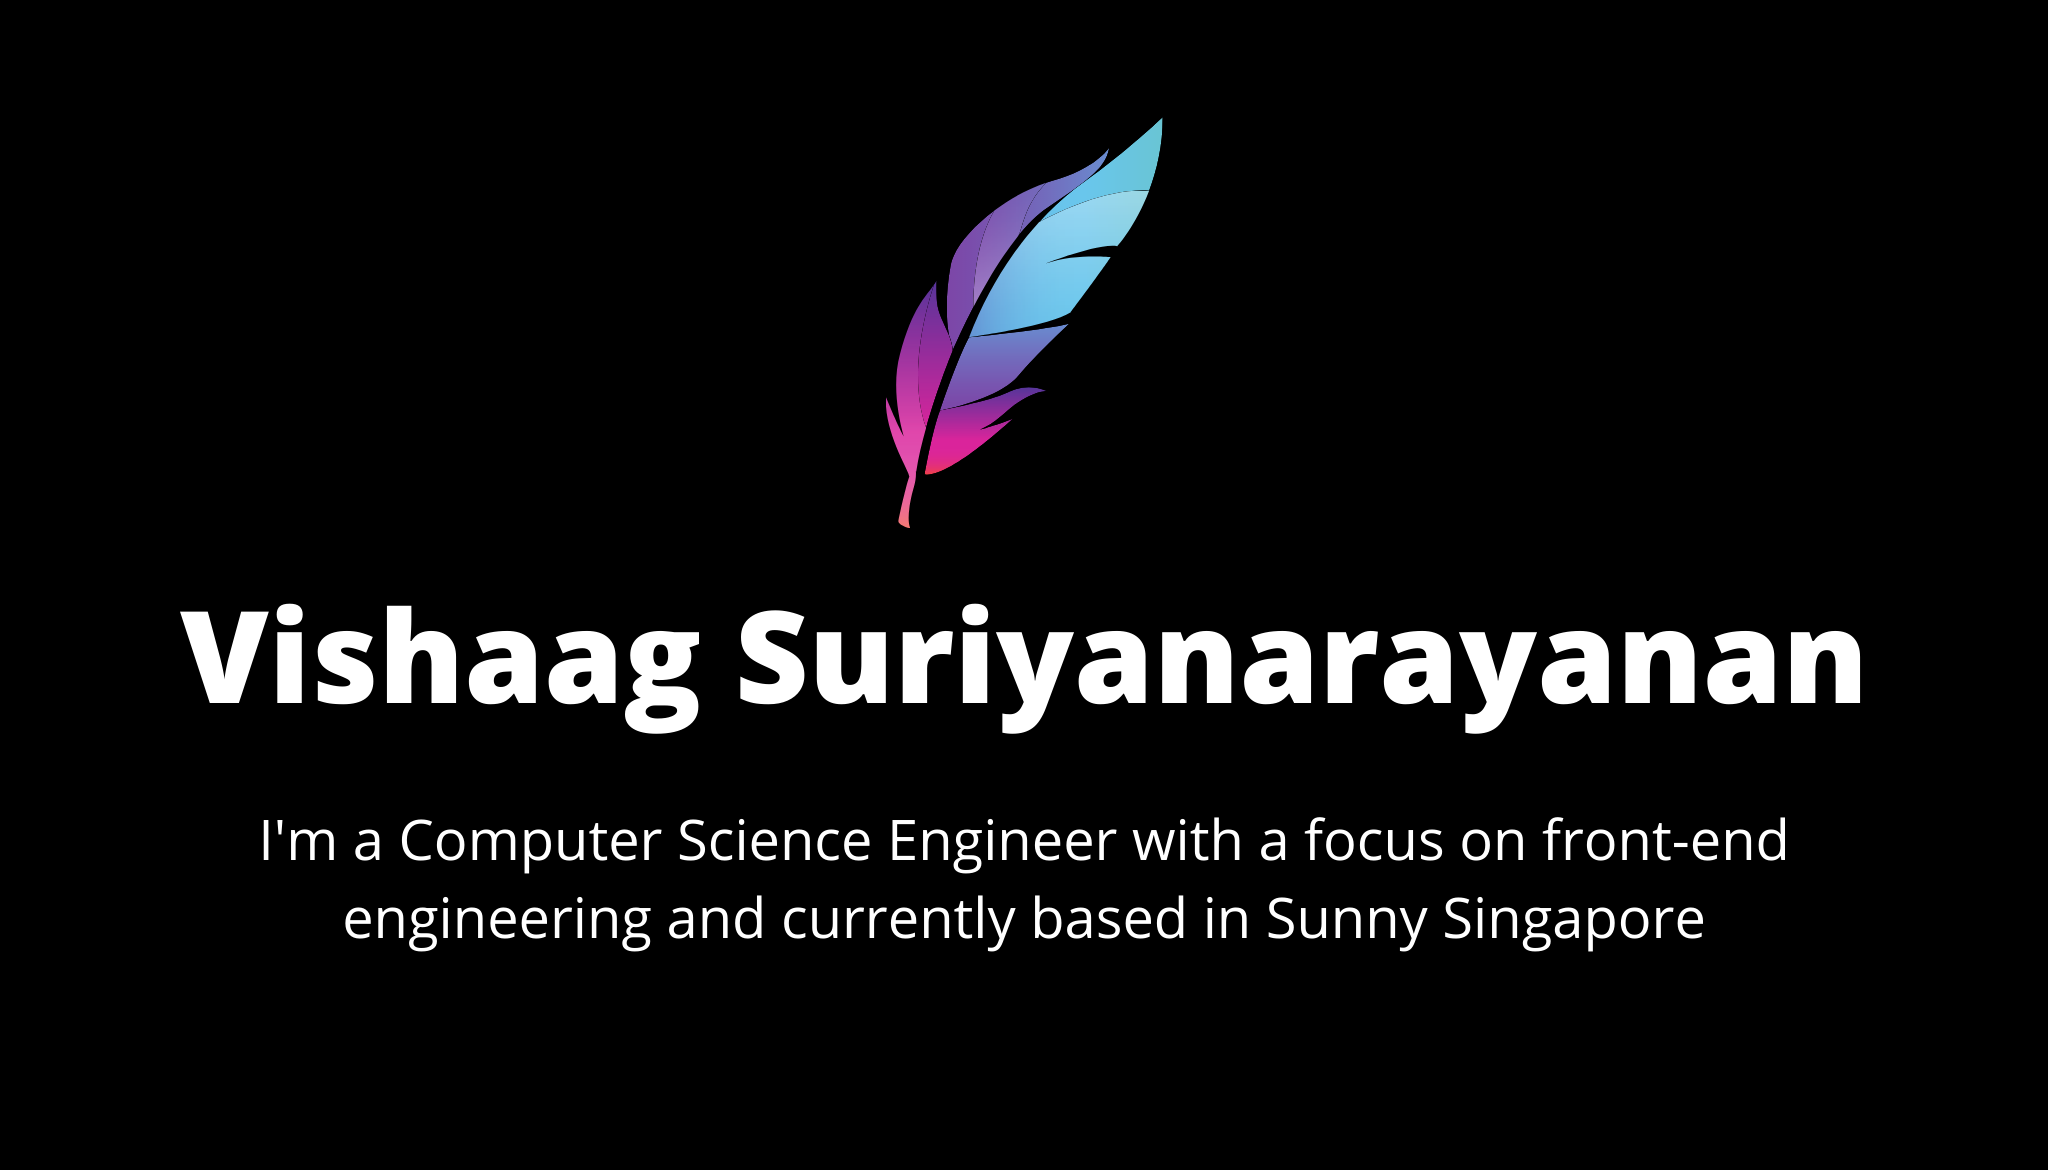
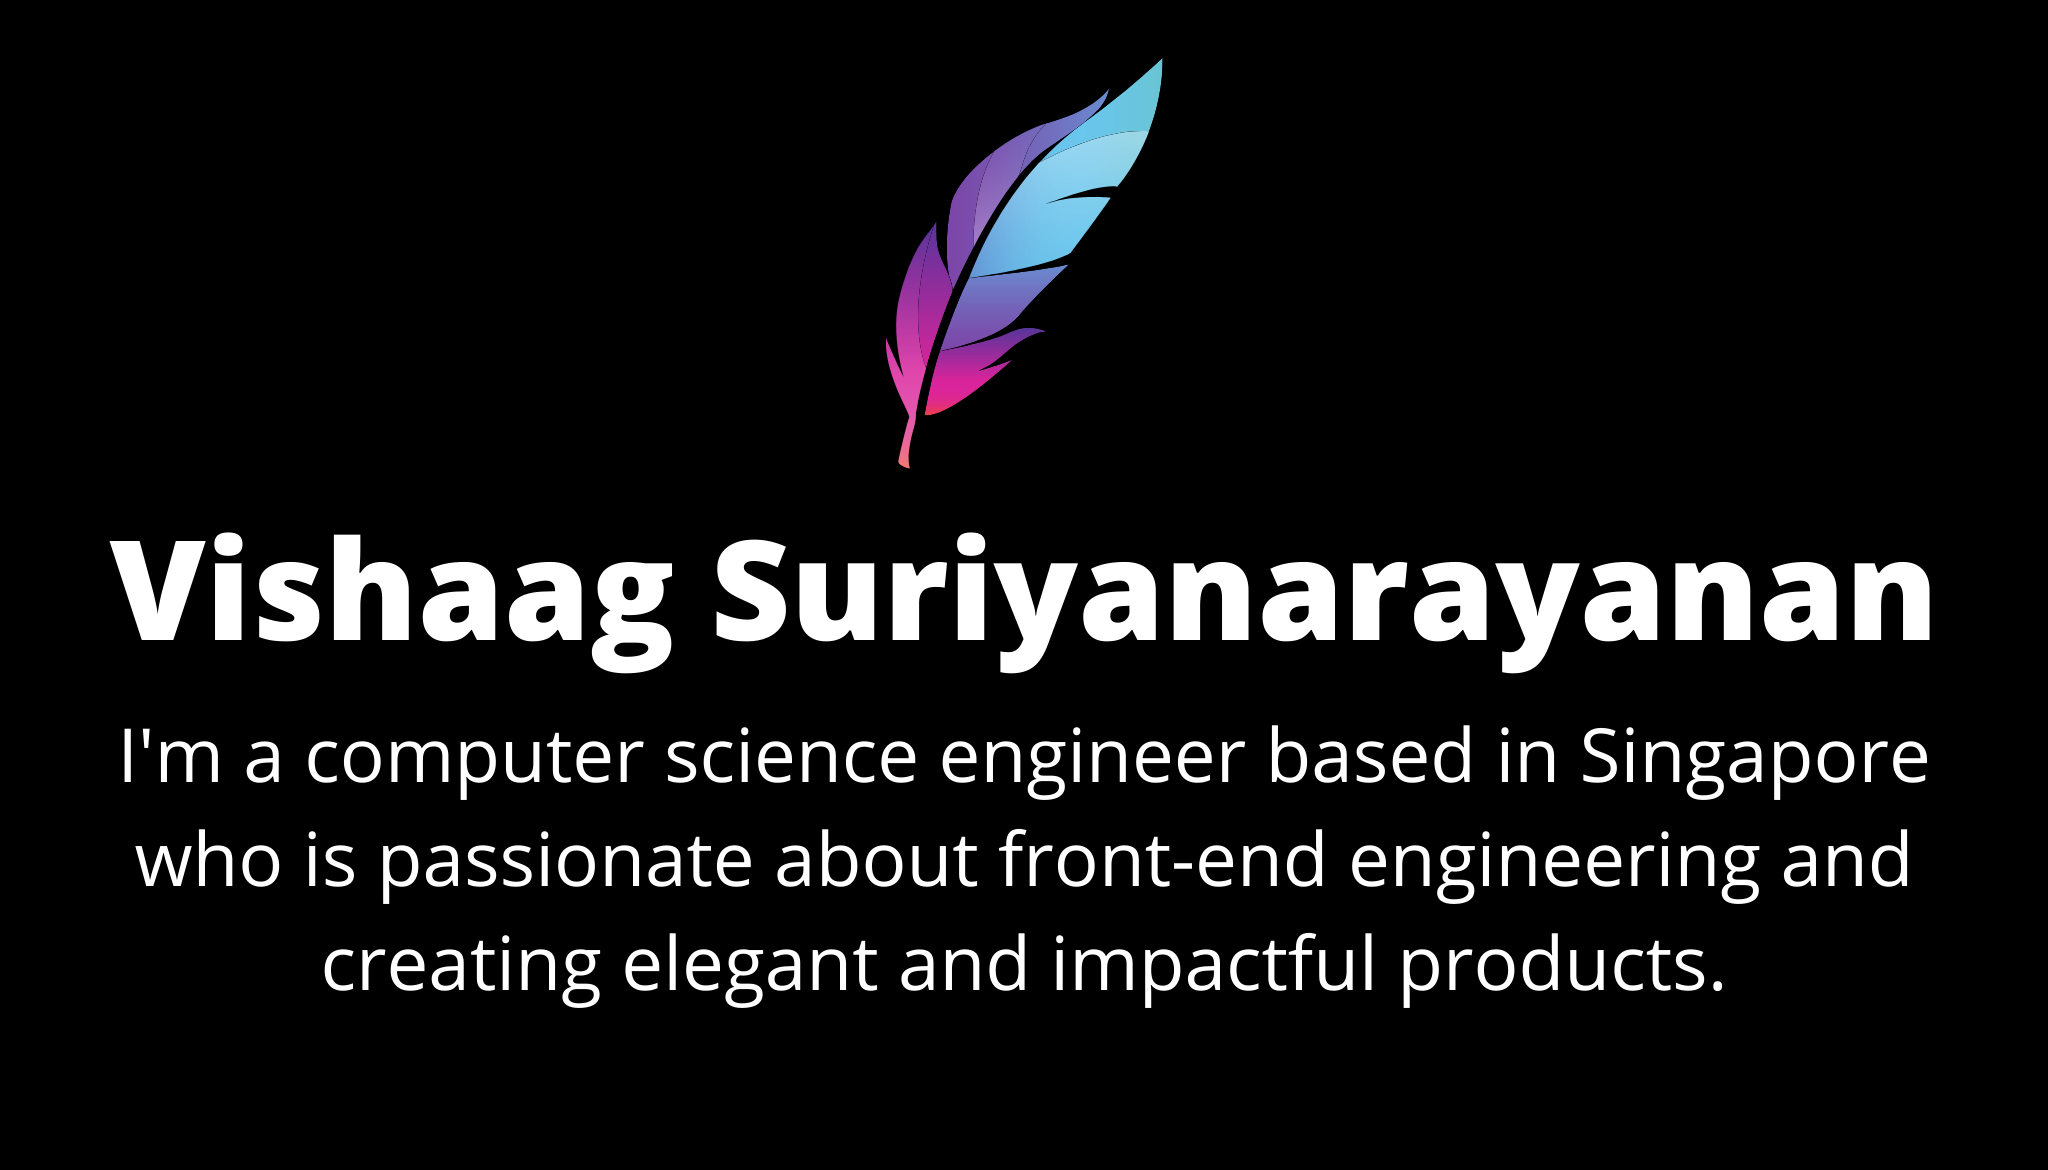
change tag line, about, social card

Changed region(s): [[0.0312, 0.0615, 0.9688, 0.6769], [0.0625, 0.7077, 0.9375, 0.8615]]

diff --git a/pages/about.js b/pages/about.js
@@ -10,12 +10,18 @@ export default function Home() {
       </Head>
       <section className={utilStyles.marginTop3rem}>
         <img src="/images/me.jpg" style={{margin: "0 auto", maxWidth:"12rem", borderRadius: '9999px'}}/>
-        <h2 className={utilStyles.headingMd}>hi! 👋</h2>
-        <p>I'm a computer science engineer with a focus on front-end engineering. I love working with the latest front-end tools and keeping myself updated with the ecosystem. I'm actively looking for my next role, so if you're hiring, please get in touch with me! You can find my <a href="/VishaagSuriyanarayananResume.pdf" target="_blank">my resume here.</a></p>
+        <p>I hail from the <a href="https://en.wikipedia.org/wiki/Coimbatore" target="_blank">manchester of south india</a> and lived there for the most part of my life. I moved to Singapore when I got the chance to pursue a master's degree at the National University of Singapore which I've recently graduated from.</p>
+        <p>I have strong experience in building web applications with HTML, CSS and Javascript and React. I thrive on writing accessible, performant and tested code and have a good eye for detail. I love to experiment and always keep upto date with new advancements in the field.</p>
+        <p>I've previsouly worked at companies like Oracle, Beautiful Code and Streetsine SRX. I'm actively looking for my next role. If you're hiring, please get in touch with me!</p>
+
+        <div style={{width: '100%', display: 'flex', justifyContent: 'center'}}>
+          <a href="/VishaagSuriyanarayananResume.pdf" target="_blank" class={utilStyles.button}>Get my Resume</a>
+        </div>
+
         <p>Apart from programming, I like conversations around life, purpose, philosophy and travel. In an alternate universe if I hadn't gone into programming, I would've probably become a pizza chef. Here's a picture of the first ever pizza I made last year.</p>
         <img src="/images/pizza.jpg" className={utilStyles.bigImage}/>
 
-        <p>I also love the outdoors, although I really don't go out as often as I'd want to, and the current situation isn't making it any easier. Here's a picture of me standing somewhere in Nusa Penida, Indonesia last year December. Ping me if you wanna know where this is 😉.</p>
+        <p>I also love the outdoors, although I really don't go out as often as I'd want to, and the current situation isn't making it any easier. Here's a picture of me standing somewhere in Nusa Penida, Indonesia last year in December.</p>
         <img src="/images/travel.jpg" className={utilStyles.bigImage}/>
       </section>
       

diff --git a/components/layout.js b/components/layout.js
@@ -33,7 +33,7 @@ export default function Layout({ children, home }) {
             />
           </Link> 
           <h1 className={utilStyles.headingLg}>{firstName} <span className={utilStyles.lightText}>{lastName}</span></h1>
-          <p className={`${utilStyles.textSm} ${styles.headerIntroText}`}>is a Computer Science Engineer with a focus on front-end engineering and currently based in Sunny Singapore</p>
+          <p className={`${utilStyles.textSm} ${styles.headerIntroText}`}>is computer science engineer based in Singapore who is passionate about front-end engineering and creating elegant and impactful products.</p>
         </div>
         <div className={styles.headerNavSide}>
           <ul className={styles.headerLinksList}>
@@ -53,7 +53,7 @@ export default function Layout({ children, home }) {
             </li>
           </ul>
         </div>
-        <p className={styles.introTextSm}>I'm a Computer Science Engineer with a focus on front-end engineering and currently based in Sunny Singapore</p>
+        <p className={styles.introTextSm}>I am a computer science engineer based in Singapore who is passionate about front-end engineering and creating elegant and impactful products.</p>
       </header>
       <main>{children}</main>
       {!home && (

diff --git a/styles/utils.module.css b/styles/utils.module.css
@@ -152,6 +152,26 @@
   max-width: 50%; 
 }
 
+.button {
+  font-weight: bold;
+  font-family: 'Montserrat', sans-serif;
+  font-size: 0.85rem;
+  padding: 0.5rem 2rem 0.5rem 2rem;
+  background: white;
+  color: black;
+  border: 1px solid white;
+  border-radius: 6px;
+}
+
+.button:hover {
+  text-decoration: none;
+  cursor: pointer;
+  background: black;
+  color: white;
+  transition: background 200ms ease, color 200ms ease;
+}
+
+
 @media only screen and (max-width: 975px) {
   .titleText {
     margin: 0
